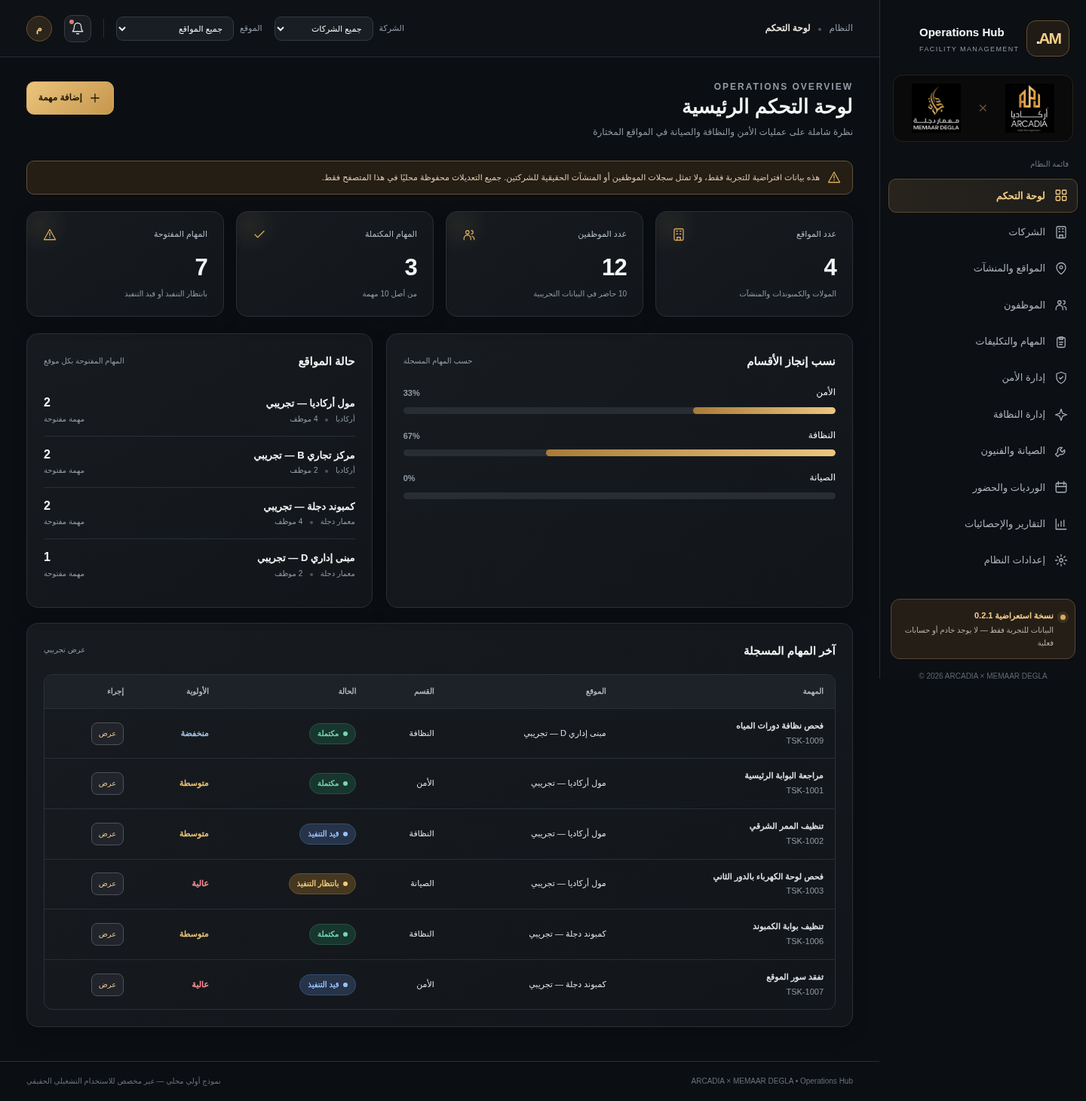
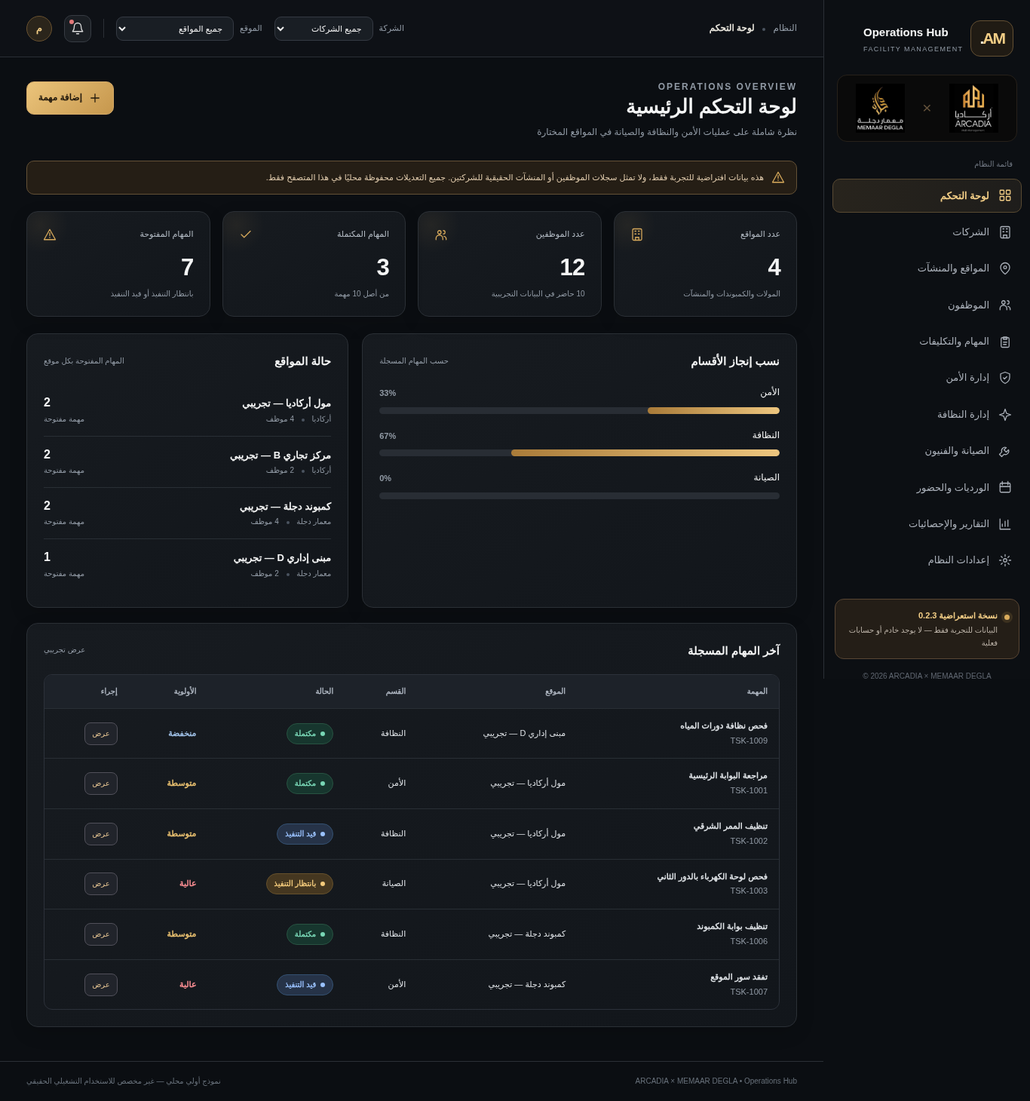
Release V0.2.3 - Premium Mobile UI

diff --git a/css/mobile-premium.css b/css/mobile-premium.css
@@ -1,0 +1,109 @@
+/* ARCADIA × MEMAAR DEGLA | V0.2.3 — Mobile-first enhancement layer.
+   Loaded after existing styles, preserving the desktop design and all functions. */
+.mobile-header-identity,.mobile-bottom-nav,.mobile-record-list{display:none}
+
+@media (max-width:820px){
+  :root{--radius:17px}
+  html{scroll-padding-top:136px}
+  body{font-size:14px;line-height:1.65}
+  .main-column{min-width:0;width:100%}
+  .topbar{height:auto;min-height:116px;display:grid;grid-template-rows:59px 50px;grid-template-columns:minmax(0,1fr);align-items:center;gap:0;padding:3px 16px 8px;background:rgba(12,15,19,.98);backdrop-filter:blur(14px);border-bottom-color:#30302b;box-shadow:0 8px 25px #0005;z-index:10}
+  .topbar-start{align-items:center;gap:11px;min-width:0;grid-row:1}
+  .topbar-start .breadcrumb{display:none}
+  .mobile-header-identity{display:flex;align-items:center;gap:10px;min-width:0}
+  .mobile-brand-logo{height:37px;width:39px;display:grid;place-items:center;font:800 15px Arial,sans-serif;color:var(--gold2);background:linear-gradient(135deg,#33291b,#1a1817);border:1px solid #7a613a;border-radius:11px;letter-spacing:-1px;box-shadow:inset 0 0 15px #d9ab5c13}
+  .mobile-brand-logo span{color:#fff}
+  .mobile-header-titles{display:flex;flex-direction:column;min-width:0;line-height:1.2;gap:3px}
+  .mobile-header-titles strong{font:700 13px Arial,sans-serif;color:#f4e1bc;direction:ltr;text-align:right}
+  .mobile-header-titles small{color:#b6b7bb;font-size:11px;white-space:nowrap;overflow:hidden;text-overflow:ellipsis}
+  .mobile-menu,.icon-btn{width:43px;height:43px;border-radius:13px}
+  .mobile-menu .icon,.icon-btn .icon{width:21px;height:21px}
+  .topbar-end{grid-row:2;align-self:center;display:grid;grid-template-columns:minmax(0,1fr) minmax(0,1fr);gap:10px;width:100%;padding:0}
+  .topbar-end .top-filter{display:flex;min-width:0;width:100%}
+  .topbar-end .site-filter{display:flex}
+  .top-filter select{width:100%;max-width:none;min-width:0;height:43px;border-radius:12px;border-color:#3b403f;background:#1b2025;color:#f0ede7;font-size:12px;padding:6px 12px;overflow:hidden;text-overflow:ellipsis;white-space:nowrap}
+  .topbar-end .avatar,.topbar-end .top-separator{display:none}
+  #notification-btn{position:absolute;left:16px;top:11px}
+  .sidebar{width:min(330px,88vw);box-shadow:-20px 0 50px #0009}
+  .sidebar .brand-box{padding-top:22px}
+  .sidebar-overlay.visible{backdrop-filter:blur(3px)}
+  .content{padding:20px 16px calc(95px + env(safe-area-inset-bottom,0px));overflow-x:clip;min-width:0}
+  .page-heading{margin-bottom:18px;gap:13px}
+  .page-heading h1{font-size:clamp(21px,5.6vw,26px);letter-spacing:-.4px;line-height:1.48}
+  .page-heading p:not(.eyebrow){font-size:12px;line-height:1.8;color:#a9adb6}
+  .eyebrow{font-size:9px;letter-spacing:2.4px;margin-bottom:3px;color:#cda764}
+  .heading-actions{width:100%;display:flex;justify-content:flex-start}
+  .heading-actions .btn{width:100%;min-height:46px;flex:1;font-size:13px;border-radius:13px;box-shadow:0 7px 24px #d4a85816}
+  .btn{min-height:43px;font-size:13px}
+  .banner-note{font-size:11px;line-height:1.65;padding:11px 12px;margin-bottom:17px;align-items:flex-start;gap:10px;border-radius:13px;background:#221c14}
+  .banner-note .icon{width:17px;height:17px;margin-top:3px;flex-shrink:0}
+  .stats-grid{grid-template-columns:repeat(2,minmax(0,1fr));gap:10px;margin-bottom:18px}
+  .metric-card{padding:15px;border-radius:16px;min-height:139px;border-color:#30343a;box-shadow:inset 0 1px 0 #ffffff07,0 8px 23px #0003}
+  .metric-card:nth-child(1){background:linear-gradient(145deg,#1c2229,#14191f)}
+  .metric-card:nth-child(2){background:linear-gradient(145deg,#1b211f,#14191b)}
+  .metric-card:nth-child(3){background:linear-gradient(145deg,#1d211d,#151a18)}
+  .metric-card:nth-child(4){background:linear-gradient(145deg,#241d1c,#18171a)}
+  .metric-head{font-size:11px;gap:5px;align-items:start}
+  .metric-head span{min-width:0;line-height:1.4}
+  .metric-head .icon{width:18px;height:18px;color:#e2b66b}
+  .metric-value{font:800 31px Arial,sans-serif;margin:13px 0 8px;line-height:1.08;text-align:right;letter-spacing:-.8px;color:#f8f7f4}
+  .metric-foot{font-size:10px;line-height:1.5;color:#a9afb5;overflow-wrap:anywhere}
+  .panel-grid{grid-template-columns:1fr;gap:12px;margin-bottom:14px}
+  .panel,.data-card{border-radius:17px;border-color:#32373e;box-shadow:0 10px 26px #0003}
+  .panel{padding:16px;margin-bottom:14px}
+  .panel-title{margin-bottom:15px;gap:9px;align-items:baseline}
+  .panel-title h2,.section-title{font-size:15px}
+  .panel-title small{font-size:10px}
+  .progress-row{margin:15px 0}
+  .progress-track{height:8px}
+  .overview-site{padding:12px 0}
+  .site-title{font-size:12px}
+  .site-right{flex-shrink:0}
+  .cards-grid,.mini-grid{grid-template-columns:1fr;gap:12px}
+  .data-card{padding:17px}
+  .data-card h3{font-size:15px}
+  .data-card p{font-size:12px}
+  .card-bottom{font-size:11px}
+  .table-wrap{max-width:100%;overflow-x:auto;-webkit-overflow-scrolling:touch}
+  .desktop-record-table{display:none}
+  .mobile-record-list{display:grid;gap:10px}
+  .mobile-record-card{padding:14px;border-radius:14px;border:1px solid #313941;background:linear-gradient(140deg,#1a2026,#12171d)}
+  .record-top,.record-bottom{display:flex;align-items:center;justify-content:space-between;gap:8px}
+  .record-id{font:600 11px Arial,sans-serif;color:#b2b7c0;direction:ltr;unicode-bidi:isolate;letter-spacing:.5px}
+  .mobile-record-card h3{font-size:13px;margin:9px 0 8px;font-weight:700;line-height:1.65}
+  .record-meta{display:flex;flex-wrap:wrap;gap:7px 13px;color:#adb4bf;font-size:11px;line-height:1.6}
+  .record-meta span{display:inline-flex;align-items:center;gap:4px;min-width:0;overflow-wrap:anywhere}
+  .record-meta .icon{width:13px;height:13px;color:#be995c}
+  .record-bottom{border-top:1px solid #30363d;margin-top:13px;padding-top:10px}
+  .record-bottom .table-link{display:inline-flex;align-items:center;gap:5px;min-height:37px;padding:6px 13px;font-size:11px}
+  .record-bottom .table-link .icon{width:14px;height:14px}
+  .record-priority{font-size:11px}
+  .table-toolbar{gap:10px}
+  .search-box{min-width:100%;max-width:none}
+  .search-box input{font-size:14px;min-height:43px}
+  .select-plain{font-size:12px;min-height:42px}
+  .dialog-backdrop{padding:10px;align-items:flex-end}
+  .dialog{width:100%;border-radius:20px 20px 12px 12px;max-height:calc(100dvh - 22px)}
+  .dialog-content{padding:17px}
+  .dialog-header{padding:17px}
+  .dialog-footer{padding:12px 17px;padding-bottom:calc(12px + env(safe-area-inset-bottom,0px))}
+  .form-group input,.form-group select,.form-group textarea{font-size:16px}
+  .footer{display:none}
+  .mobile-bottom-nav{display:grid;grid-template-columns:repeat(5,minmax(0,1fr));position:fixed;z-index:11;bottom:0;left:0;right:0;min-height:calc(68px + env(safe-area-inset-bottom,0px));padding:5px 5px calc(6px + env(safe-area-inset-bottom,0px));background:rgba(15,18,23,.97);border-top:1px solid #343438;backdrop-filter:blur(18px);box-shadow:0 -8px 30px #0007}
+  .bottom-nav-item{appearance:none;border:0;background:transparent;display:flex;flex-direction:column;align-items:center;justify-content:center;gap:3px;min-width:0;min-height:55px;border-radius:12px;color:#929aa5;font-size:10px;line-height:1.4;font-weight:700;position:relative}
+  .bottom-nav-item .icon{width:20px;height:20px;stroke-width:1.85}
+  .bottom-nav-item.active{color:#f0c981;background:#d5ab6321}
+  .bottom-nav-item.active:before{content:"";position:absolute;width:20px;height:2px;border-radius:5px;background:#e3b970;top:0}
+  #toast{bottom:calc(83px + env(safe-area-inset-bottom,0px));left:12px;right:12px;max-width:none;text-align:center;font-size:12px}
+}
+@media (max-width:360px){
+  .topbar{padding-inline:12px}
+  #notification-btn{left:12px}
+  .content{padding-inline:12px}
+  .metric-card{padding:12px;min-height:136px}
+  .metric-head{font-size:10px}
+  .metric-value{font-size:28px}
+  .metric-foot{font-size:9px}
+  .bottom-nav-item{font-size:9px}
+}
+@media(prefers-reduced-motion:reduce){.mobile-bottom-nav,.topbar{backdrop-filter:none}}

diff --git a/js/pages/reports.js b/js/pages/reports.js
@@ -4,7 +4,7 @@ export function createReportsPages(ctx) {
   function attendance(){
     const people=fEmployees(); const present=people.filter(e=>e.presence==='present').length;
     const rows=people.map(e=>`<tr><td><strong>${esc(e.name)}</strong></td><td>${esc(siteName(e.siteId))}</td><td>${esc(deptName(e.department))}</td><td>${esc(e.shift)}</td><td>${badge(e.presence)}</td><td><button class="table-link" data-action="toggle-presence" data-id="${esc(e.id)}">${e.presence==='present'?'تسجيل غياب':'تسجيل حضور'}</button></td></tr>`);
-    return heading('Shifts & attendance','الورديات والحضور','سجل حضور توضيحي قابل للتعديل لأغراض اختبار الواجهة')+demoNotice+`<div class="mini-grid">${tile('الموظفون',people.length,'ضمن المواقع المختارة')}${tile('حاضر',present,'حسب السجل المحلي')}${tile('غائب',people.length-present,'حسب السجل المحلي')}</div>`+panel('الحضور التجريبي',table(['الموظف','الموقع','القسم','الوردية','الحالة','تحديث'],rows),'ليس جهاز بصمة ولا نظام حضور معتمد');
+    return heading('Shifts & attendance','الورديات والحضور','سجل حضور توضيحي قابل للتعديل لأغراض اختبار الواجهة')+demoNotice+`<div class="mini-grid">${tile('الموظفون',people.length,'ضمن المواقع المختارة')}${tile('حاضر',present,'حسب السجل المحلي')}${tile('غائب',people.length-present,'حسب السجل المحلي')}</div>`+panel('الحضور التجريبي',`<div class="desktop-record-table">${table(['الموظف','الموقع','القسم','الوردية','الحالة','تحديث'],rows)}</div><div class="mobile-record-list">${people.map(e=>`<article class="mobile-record-card"><div class="record-top">${badge(e.presence)}<span class="record-id">${esc(e.shift)}</span></div><h3>${esc(e.name)}</h3><div class="record-meta"><span>${esc(siteName(e.siteId))}</span><span>${esc(deptName(e.department))}</span></div><div class="record-bottom"><button class="table-link" data-action="toggle-presence" data-id="${esc(e.id)}">${e.presence==='present'?'تسجيل غياب':'تسجيل حضور'}</button></div></article>`).join('')}</div>`,'ليس جهاز بصمة ولا نظام حضور معتمد');
   }
   function reports(){
     const tasks=fTasks(),employees=fEmployees(),sites=fSites(),done=tasks.filter(t=>t.status==='done').length;
@@ -15,7 +15,7 @@ export function createReportsPages(ctx) {
   }
   function settings(){
     return heading('System configuration','إعدادات النظام','المعايير الأساسية للنموذج الاستعراضي')+demoNotice+
-      `<section class="panel-grid">${panel('بيئة العرض',`<div class="report-stat"><span>اسم النظام</span><strong>Operations Hub</strong></div><div class="report-stat"><span>نسخة النموذج</span><strong>0.2.2</strong></div><div class="report-stat"><span>طريقة التخزين الحالية</span><strong>LocalStorage</strong></div><div class="report-stat"><span>تسجيل الدخول والصلاحيات</span><strong style="color:#e4b37e">غير مفعّل بعد</strong></div><div class="report-stat"><span>قاعدة بيانات حقيقية</span><strong style="color:#e4b37e">غير متصلة</strong></div>`) }
+      `<section class="panel-grid">${panel('بيئة العرض',`<div class="report-stat"><span>اسم النظام</span><strong>Operations Hub</strong></div><div class="report-stat"><span>نسخة النموذج</span><strong>0.2.3</strong></div><div class="report-stat"><span>طريقة التخزين الحالية</span><strong>LocalStorage</strong></div><div class="report-stat"><span>تسجيل الدخول والصلاحيات</span><strong style="color:#e4b37e">غير مفعّل بعد</strong></div><div class="report-stat"><span>قاعدة بيانات حقيقية</span><strong style="color:#e4b37e">غير متصلة</strong></div>`) }
       ${panel('بيانات النموذج',`<p class="muted">يمكن إعادة بيانات الاختبار إلى وضعها الأصلي. ستُحذف التعديلات التجريبية المخزنة في هذا المتصفح فقط.</p>${btn('إعادة البيانات الافتراضية','reset-demo','reload','btn-danger')}<div class="warn-box">لا تستخدم النموذج لتخزين بيانات حقيقية أو شخصية: هذه نسخة لتجربة التصميم ومسارات العمل، وليست نظامًا آمنًا للنشر.</div>`)}</section>`;
   }
   return { attendance, reports, settings };

diff --git a/index.html b/index.html
@@ -6,10 +6,11 @@
   <meta name="theme-color" content="#0b0d11">
   <meta name="description" content="نموذج أولي لنظام إدارة التشغيل لشركتي ARCADIA وMEMAAR DEGLA">
   <title>Operations Hub | ARCADIA × MEMAAR DEGLA</title>
-  <link rel="stylesheet" href="css/main.css">
-  <link rel="stylesheet" href="css/components.css">
-  <link rel="stylesheet" href="css/dashboard.css">
-  <link rel="stylesheet" href="css/responsive.css">
+  <link rel="stylesheet" href="css/main.css?v=0.2.3">
+  <link rel="stylesheet" href="css/components.css?v=0.2.3">
+  <link rel="stylesheet" href="css/dashboard.css?v=0.2.3">
+  <link rel="stylesheet" href="css/responsive.css?v=0.2.3">
+  <link rel="stylesheet" href="css/mobile-premium.css?v=0.2.3">
 </head>
 <body>
 <svg aria-hidden="true" class="sprite" xmlns="http://www.w3.org/2000/svg">
@@ -53,14 +54,14 @@
     <div class="side-section-label">قائمة النظام</div>
     <nav id="side-nav"></nav>
     <div class="side-bottom">
-      <div class="prototype-notice"><span class="prototype-pulse"></span><div><strong>نسخة استعراضية 0.2.2</strong><small>البيانات للتجربة فقط — لا يوجد خادم أو حسابات فعلية</small></div></div>
+      <div class="prototype-notice"><span class="prototype-pulse"></span><div><strong>نسخة استعراضية 0.2.3</strong><small>البيانات للتجربة فقط — لا يوجد خادم أو حسابات فعلية</small></div></div>
       <div class="build-version">© 2026 ARCADIA × MEMAAR DEGLA</div>
     </div>
   </aside>
   <div class="sidebar-overlay" id="overlay"></div>
   <div class="main-column">
     <header class="topbar">
-      <div class="topbar-start"><button class="icon-btn mobile-menu" id="menu-btn" aria-label="فتح القائمة"><svg class="icon"><use href="#i-menu"/></svg></button><div class="breadcrumb" id="breadcrumb"></div></div>
+      <div class="topbar-start"><button class="icon-btn mobile-menu" id="menu-btn" aria-label="فتح القائمة"><svg class="icon"><use href="#i-menu"/></svg></button><div class="mobile-header-identity" aria-hidden="true"><span class="mobile-brand-logo">AM<span>.</span></span><span class="mobile-header-titles"><strong>Operations Hub</strong><small id="mobile-page-title">لوحة التحكم</small></span></div><div class="breadcrumb" id="breadcrumb"></div></div>
       <div class="topbar-end">
         <div class="top-filter"><label for="company-filter">الشركة</label><select id="company-filter"><option value="all">جميع الشركات</option></select></div>
         <div class="top-filter site-filter"><label for="site-filter">الموقع</label><select id="site-filter"><option value="all">جميع المواقع</option></select></div>
@@ -69,12 +70,19 @@
       </div>
     </header>
     <main class="content" id="content" tabindex="-1"></main>
+    <nav class="mobile-bottom-nav" id="mobile-bottom-nav" aria-label="التنقل السريع">
+      <button type="button" data-page="dashboard" class="bottom-nav-item active"><svg class="icon" aria-hidden="true"><use href="#i-grid"></use></svg><span>الرئيسية</span></button>
+      <button type="button" data-page="tasks" class="bottom-nav-item"><svg class="icon" aria-hidden="true"><use href="#i-clipboard"></use></svg><span>المهام</span></button>
+      <button type="button" data-page="sites" class="bottom-nav-item"><svg class="icon" aria-hidden="true"><use href="#i-map"></use></svg><span>المواقع</span></button>
+      <button type="button" data-page="employees" class="bottom-nav-item"><svg class="icon" aria-hidden="true"><use href="#i-users"></use></svg><span>الموظفون</span></button>
+      <button type="button" id="bottom-menu-btn" class="bottom-nav-item" aria-label="فتح جميع الأقسام"><svg class="icon" aria-hidden="true"><use href="#i-menu"></use></svg><span>المزيد</span></button>
+    </nav>
     <footer class="footer"><span>ARCADIA × MEMAAR DEGLA • Operations Hub</span><span>نموذج أولي محلي — غير مخصص للاستخدام التشغيلي الحقيقي</span></footer>
   </div>
 </div>
 <div id="dialog-root"></div>
 <div id="toast" role="status" aria-live="polite"></div>
-<script type="module" src="js/app.js?v=0.2.2"></script>
+<script type="module" src="js/app.js?v=0.2.3"></script>
 <noscript><p style="padding:1rem;text-align:center">يتطلب تشغيل هذه الواجهة تفعيل JavaScript.</p></noscript>
 </body>
 </html>

diff --git a/js/pages/tasks.js b/js/pages/tasks.js
@@ -1,6 +1,6 @@
 // Modular V0.2.1: createTasksPage. UI demo only.
 export function createTasksPage(ctx) {
-  const { data, state, esc, company, site, siteName, employeeName, deptName, fTasks, badge, priority, fmtDate, heading, btn, panel, table, searchToolbar, demoNotice, tile } = ctx;
+  const { data, state, esc, company, site, siteName, employeeName, deptName, fTasks, badge, priority, fmtDate, heading, btn, panel, table, searchToolbar, demoNotice, tile, mobileTaskCard } = ctx;
   function tasksPage(dept){
     const q=state.search.trim().toLowerCase();
     let tasks=fTasks().filter(t=>!dept||t.department===dept).filter(t=>state.status==='all'||t.status===state.status).filter(t=>(t.title+' '+t.id+' '+siteName(t.siteId)+' '+employeeName(t.assignedTo)).toLowerCase().includes(q));
@@ -12,7 +12,7 @@ export function createTasksPage(ctx) {
       dept==='cleaning'?`<div class="mini-grid">${tile('مهام النظافة',tasks.length,'مجدولة ومسندة')}${tile('مهام مكتملة',tasks.filter(t=>t.status==='done').length,'ضمن النطاق المختار')}${tile('قيد المتابعة',tasks.filter(t=>t.status!=='done').length,'لم تغلق بعد')}</div>`:
       dept==='maintenance'?`<div class="mini-grid">${tile('بلاغات الصيانة',tasks.length,'تحت المتابعة')}${tile('عالية الأولوية',tasks.filter(t=>t.priority==='high').length,'تحتاج اهتمامًا')}${tile('مكتملة',tasks.filter(t=>t.status==='done').length,'تمت مراجعتها تجريبيًا')}</div>`:'';
     const notes=dept==='security'?panel('البلاغات الأمنية — بيانات نموذجية',table(['البلاغ','الموقع','الخطورة','الحالة'],data.incidents.filter(i=>state.site==='all'||i.siteId===state.site).filter(i=>state.company==='all'||site(i.siteId)?.companyId===state.company).map(i=>`<tr><td>${esc(i.title)}</td><td>${esc(siteName(i.siteId))}</td><td>${priority(i.level)}</td><td>${badge(i.status)}</td></tr>`))):'';
-    return heading(dept?dept.toUpperCase()+' operations':'Task center',label,desc,btn('مهمة جديدة','new-task'))+demoNotice+extra+panel(dept?'مهام '+label:'جميع المهام',searchToolbar()+table(heads,rows),`${tasks.length} نتيجة`)+notes;
+    return heading(dept?dept.toUpperCase()+' operations':'Task center',label,desc,btn('مهمة جديدة','new-task'))+demoNotice+extra+panel(dept?'مهام '+label:'جميع المهام',searchToolbar()+`<div class="desktop-record-table">${table(heads,rows)}</div><div class="mobile-record-list">${tasks.length?tasks.map(t=>mobileTaskCard(t,{siteName,deptName,employeeName,showEmployee:true,showDepartment:!dept})).join(''):'<p class="no-data">لا توجد مهام في النطاق الحالي</p>'}</div>`,`${tasks.length} نتيجة`)+notes;
   }
   return { tasksPage };
 }

diff --git a/js/ui/templates.js b/js/ui/templates.js
@@ -10,8 +10,14 @@ export function createTemplates(ctx) {
   const panel=(title,content,subtitle='')=>`<section class="panel"><div class="panel-title"><h2>${title}</h2>${subtitle?`<small>${subtitle}</small>`:''}</div>${content}</section>`;
   const table=(heads,rows,empty='لا توجد نتائج ضمن نطاق البحث الحالي')=>`<div class="table-wrap"><table class="data-table"><thead><tr>${heads.map(h=>`<th scope="col">${h}</th>`).join('')}</tr></thead><tbody>${rows.length?rows.join(''):`<tr><td colspan="${heads.length}" class="empty-state">${empty}</td></tr>`}</tbody></table></div>`;
   const searchToolbar=(placeholder='ابحث بالاسم أو الرقم...')=>`<div class="table-toolbar"><label class="search-box">${icon('search')}<input type="search" id="page-search" value="${esc(state.search)}" placeholder="${esc(placeholder)}" autocomplete="off" aria-label="بحث"></label><select class="select-plain" id="status-filter" aria-label="تصفية الحالة"><option value="all">كل الحالات</option><option value="pending" ${state.status==='pending'?'selected':''}>بانتظار التنفيذ</option><option value="progress" ${state.status==='progress'?'selected':''}>قيد التنفيذ</option><option value="done" ${state.status==='done'?'selected':''}>مكتملة</option></select></div>`;
+  const mobileTaskCard=(t,{siteName,deptName,employeeName,showEmployee=false,showDepartment=true})=>`<article class="mobile-record-card">
+    <div class="record-top"><span class="record-id">${esc(t.id)}</span>${badge(t.status)}</div>
+    <h3>${esc(t.title)}</h3>
+    <div class="record-meta"><span>${icon('map')}${esc(siteName(t.siteId))}</span>${showDepartment?`<span>${icon('shield')}${esc(deptName(t.department))}</span>`:''}${showEmployee?`<span>${icon('users')}${esc(employeeName(t.assignedTo))}</span>`:''}</div>
+    <div class="record-bottom"><span class="record-priority">${priority(t.priority)}</span><button class="table-link" data-action="task-detail" data-id="${esc(t.id)}">عرض التفاصيل ${icon('chevron')}</button></div>
+  </article>`;
   const demoNotice=`<div class="banner-note">${icon('alert')} <span>هذه بيانات افتراضية للتجربة فقط، ولا تمثل سجلات الموظفين أو المنشآت الحقيقية للشركتين. جميع التعديلات محفوظة محليًا في هذا المتصفح فقط.</span></div>`;
 
   function tile(title,num,caption){return `<div class="feature-tile"><span>${title}</span><strong>${num}</strong><small>${caption}</small></div>`;}
-  return { badge, priority, fmtDate, stat, heading, btn, panel, table, searchToolbar, demoNotice, tile };
+  return { badge, priority, fmtDate, stat, heading, btn, panel, table, searchToolbar, demoNotice, tile, mobileTaskCard };
 }

diff --git a/js/ui/events.js b/js/ui/events.js
@@ -2,7 +2,7 @@
 export function initEvents(ctx) {
   const { $, data, state, SEED, save, resetData, company, site, employee, btn, renderPage, refresh, toast, closeDialog, dialog, newTask, submitTask, newSite, submitSite, newEmployee, submitEmployee, taskDetail, csvExport } = ctx;
   function resetDemo(){if(!confirm('هل تريد حذف التعديلات التجريبية وإعادة البيانات الأصلية؟'))return;resetData();closeDialog();state.company='all';state.site='all';state.search='';state.status='all';refresh();toast('أُعيدت البيانات التجريبية');}
-  function closeSidebar(){$('sidebar').classList.remove('open');$('overlay').classList.remove('visible');}
+  function closeSidebar(){$('sidebar').classList.remove('open');$('overlay').classList.remove('visible');$('menu-btn').setAttribute('aria-expanded','false');}
   document.addEventListener('click',e=>{
     const nav=e.target.closest('[data-page]');if(nav){state.page=nav.dataset.page;state.search='';state.status='all';closeSidebar();renderPage();window.scrollTo({top:0,behavior:'auto'});return;}
     const a=e.target.closest('[data-action]');if(a){const action=a.dataset.action;
@@ -17,8 +17,10 @@ export function initEvents(ctx) {
   document.addEventListener('keydown',e=>{if(e.key==='Escape'){closeDialog();closeSidebar();}});
   $('company-filter').addEventListener('change',e=>{state.company=e.target.value;state.site='all';state.search='';refresh();});
   $('site-filter').addEventListener('change',e=>{state.site=e.target.value;state.search='';renderPage();});
-  $('menu-btn').addEventListener('click',()=>{$('sidebar').classList.add('open');$('overlay').classList.add('visible');});
+  $('menu-btn').addEventListener('click',()=>{$('sidebar').classList.add('open');$('overlay').classList.add('visible');$('menu-btn').setAttribute('aria-expanded','true');});
   $('overlay').addEventListener('click',closeSidebar);
+  const bottomMenu=$('bottom-menu-btn');if(bottomMenu)bottomMenu.addEventListener('click',()=>{$('sidebar').classList.add('open');$('overlay').classList.add('visible');$('menu-btn').setAttribute('aria-expanded','true');});
+  $('menu-btn').setAttribute('aria-expanded','false');
   $('notification-btn').addEventListener('click',()=>{state.page='maintenance';state.status='pending';state.search='';renderPage();toast('عرض المهام المعلقة — الإشعارات الحقيقية ستُضاف لاحقًا');});
   refresh();
   return { resetDemo, closeSidebar };

diff --git a/js/app.js b/js/app.js
@@ -1,22 +1,22 @@
 // V0.2.2 — modular browser-native ES modules (no build step required).
 // Static hosting compatible: GitHub Pages. Demo data remains local-only.
-import {$,icon,esc,day,safeCsvCell} from './core/utils.js?v=0.2.2';
-import {createSeed} from './core/seed.js?v=0.2.2';
-import {LABELS,STATUS_CLASS,NAV} from './core/config.js?v=0.2.2';
-import {createStore} from './core/store.js?v=0.2.2';
-import {createTemplates} from './ui/templates.js?v=0.2.2';
-import {createDashboardPage} from './pages/dashboard.js?v=0.2.2';
-import {createSitesPages} from './pages/sites.js?v=0.2.2';
-import {createEmployeePage} from './pages/employees.js?v=0.2.2';
-import {createTasksPage} from './pages/tasks.js?v=0.2.2';
-import {createReportsPages} from './pages/reports.js?v=0.2.2';
-import {createLayout} from './ui/layout.js?v=0.2.2';
-import {createDialogs} from './ui/dialogs.js?v=0.2.2';
-import {createFormOptions} from './features/form-options.js?v=0.2.2';
-import {createTaskActions} from './features/tasks.js?v=0.2.2';
-import {createSiteActions} from './features/sites.js?v=0.2.2';
-import {createEmployeeActions} from './features/employees.js?v=0.2.2';
-import {initEvents} from './ui/events.js?v=0.2.2';
+import {$,icon,esc,day,safeCsvCell} from './core/utils.js?v=0.2.3';
+import {createSeed} from './core/seed.js?v=0.2.3';
+import {LABELS,STATUS_CLASS,NAV} from './core/config.js?v=0.2.3';
+import {createStore} from './core/store.js?v=0.2.3';
+import {createTemplates} from './ui/templates.js?v=0.2.3';
+import {createDashboardPage} from './pages/dashboard.js?v=0.2.3';
+import {createSitesPages} from './pages/sites.js?v=0.2.3';
+import {createEmployeePage} from './pages/employees.js?v=0.2.3';
+import {createTasksPage} from './pages/tasks.js?v=0.2.3';
+import {createReportsPages} from './pages/reports.js?v=0.2.3';
+import {createLayout} from './ui/layout.js?v=0.2.3';
+import {createDialogs} from './ui/dialogs.js?v=0.2.3';
+import {createFormOptions} from './features/form-options.js?v=0.2.3';
+import {createTaskActions} from './features/tasks.js?v=0.2.3';
+import {createSiteActions} from './features/sites.js?v=0.2.3';
+import {createEmployeeActions} from './features/employees.js?v=0.2.3';
+import {initEvents} from './ui/events.js?v=0.2.3';
 
 const SEED=createSeed(day);
 const {data,save,resetData}=createStore(SEED);

diff --git a/js/pages/dashboard.js b/js/pages/dashboard.js
@@ -1,6 +1,6 @@
 // Modular V0.2.1: createDashboardPage. UI demo only.
 export function createDashboardPage(ctx) {
-  const { data, esc, site, companyName, siteName, deptName, fTasks, fEmployees, fSites, badge, priority, stat, heading, btn, panel, table, demoNotice } = ctx;
+  const { data, esc, site, companyName, siteName, deptName, fTasks, fEmployees, fSites, badge, priority, stat, heading, btn, panel, table, demoNotice, mobileTaskCard } = ctx;
   function dashboard(){
     const tasks=fTasks(),people=fEmployees(),sites=fSites();
     const done=tasks.filter(t=>t.status==='done').length,opened=tasks.filter(t=>t.status!=='done').length;
@@ -13,7 +13,7 @@ export function createDashboardPage(ctx) {
     return heading('Operations overview','لوحة التحكم الرئيسية','نظرة شاملة على عمليات الأمن والنظافة والصيانة في المواقع المختارة',btn('إضافة مهمة','new-task'))+demoNotice+
       `<section class="stats-grid">${stat('عدد المواقع',sites.length,'building','المولات والكمبوندات والمنشآت')}${stat('عدد الموظفين',people.length,'users',`${present} حاضر في البيانات التجريبية`)}${stat('المهام المكتملة',done,'check',`من أصل ${tasks.length} مهمة`)}${stat('المهام المفتوحة',opened,'alert','بانتظار التنفيذ أو قيد التنفيذ')}</section>`+
       `<section class="panel-grid">${panel('نسب إنجاز الأقسام',progress,'حسب المهام المسجلة')}${panel('حالة المواقع',siteRows,'المهام المفتوحة بكل موقع')}</section>`+
-      panel('آخر المهام المسجلة',table(['المهمة','الموقع','القسم','الحالة','الأولوية','إجراء'],rows),'عرض تجريبي');
+      panel('آخر المهام المسجلة',`<div class="desktop-record-table">${table(['المهمة','الموقع','القسم','الحالة','الأولوية','إجراء'],rows)}</div><div class="mobile-record-list">${recent.length?recent.map(t=>mobileTaskCard(t,{siteName,deptName})).join(''):'<p class="no-data">لا توجد مهام</p>'}</div>`,'عرض تجريبي');
   }
   return { dashboard };
 }

diff --git a/js/pages/employees.js b/js/pages/employees.js
@@ -5,7 +5,7 @@ export function createEmployeePage(ctx) {
     const search=state.search.trim().toLowerCase();
     const people=fEmployees().filter(e=>(e.name+' '+e.code+' '+e.job).toLowerCase().includes(search));
     const rows=people.map(e=>`<tr><td><strong>${esc(e.name)}</strong><br><span class="muted">${esc(e.code)}</span></td><td>${esc(e.job)}</td><td>${esc(deptName(e.department))}</td><td>${esc(siteName(e.siteId))}</td><td>${esc(e.shift)}</td><td>${badge(e.presence)}</td></tr>`);
-    return heading('Workforce directory','الموظفون','ملفات الموظفين وتوزيعهم على المواقع والأقسام',btn('إضافة موظف','new-employee'))+demoNotice+panel('دليل الموظفين',searchToolbar('ابحث بالاسم أو الكود الوظيفي...')+table(['الموظف','الوظيفة','القسم','الموقع','الوردية','الحضور'],rows),`${people.length} موظف`);
+    return heading('Workforce directory','الموظفون','ملفات الموظفين وتوزيعهم على المواقع والأقسام',btn('إضافة موظف','new-employee'))+demoNotice+panel('دليل الموظفين',searchToolbar('ابحث بالاسم أو الكود الوظيفي...')+`<div class="desktop-record-table">${table(['الموظف','الوظيفة','القسم','الموقع','الوردية','الحضور'],rows)}</div><div class="mobile-record-list">${people.length?people.map(e=>`<article class="mobile-record-card"><div class="record-top"><span class="record-id">${esc(e.code)}</span>${badge(e.presence)}</div><h3>${esc(e.name)}</h3><div class="record-meta"><span>${esc(e.job)}</span><span>${esc(deptName(e.department))}</span><span>${esc(siteName(e.siteId))}</span><span>${esc(e.shift)}</span></div></article>`).join(''):'<p class="no-data">لا يوجد موظفون ضمن نطاق البحث</p>'}</div>`,`${people.length} موظف`);
   }
   return { employeesPage };
 }

diff --git a/js/ui/layout.js b/js/ui/layout.js
@@ -6,6 +6,8 @@ export function createLayout(ctx) {
     $('side-nav').innerHTML=NAV.map(([id,ic,title])=>`<button class="nav-item ${state.page===id?'active':''}" data-page="${id}" ${state.page===id?'aria-current="page"':''}>${icon(ic)}<span>${title}</span></button>`).join('');
     const label=NAV.find(x=>x[0]===state.page)?.[2]||'لوحة التحكم';
     $('breadcrumb').innerHTML=`النظام <span class="small-sep"></span> <strong>${esc(label)}</strong>`;
+    const mobileLabel=$('mobile-page-title');if(mobileLabel)mobileLabel.textContent=label;
+    document.querySelectorAll('#mobile-bottom-nav [data-page]').forEach(button=>{const active=button.dataset.page===state.page;button.classList.toggle('active',active);if(active)button.setAttribute('aria-current','page');else button.removeAttribute('aria-current');});
     $('content').innerHTML=(renderers[state.page]||dashboard)();
   }
   function renderFilters(){

diff --git a/CHANGELOG.md b/CHANGELOG.md
@@ -1,36 +1,10 @@
 # Changelog
 
-## V0.2.2 — إصلاح الشاشة الفارغة (Hotfix)
-
-- إصلاح دالة `$` المفقودة في 6 وحدات JavaScript، التي أوقفت تحميل لوحة التحكم.
-- إصلاح زر إعادة بيانات العرض إلى الافتراضي باستخدام `resetData()`.
-- إضافة معامل إصدار `?v=0.2.2` للملف الرئيسي ووارداته لتقليل تأثير التخزين المؤقت بعد النشر.
-- تنظيف تعبير CSV من محارف تحكم غير قابلة للطباعة.
-- اختبار إنشاء الواجهة والعرض الأولي لكل الأقسام الـ11 باستخدام محاكاة DOM، وفحص صياغة كل ملفات JavaScript.
-- **لم يكتمل اختبار تفاعل مرئي بمتصفح حقيقي في بيئة الاختبار** بسبب قيود التصفح؛ يرجى التحقق بعد النشر.
-
----
-
-# Changelog — V0.2.1
-
-## Changes made
-- Preserve V0.1's Arabic dark/gold UI, original logos, 11 navigation sections, and demo-only flows.
-- Split styles into `css/main.css`, `css/components.css`, `css/dashboard.css`, and `css/responsive.css`.
-- Split JavaScript into ES modules under `js/core`, `js/pages`, `js/features`, and `js/ui`.
-- Preserve the old `am-ops-demo-v1` localStorage key to avoid losing existing local demo edits.
-- Improve error handling for unavailable local storage.
-- Protect exported CSV cells from spreadsheet-formula injection.
-- Prevent saving employee, site, or task names containing only spaces.
-- Improve dialog closing focus restoration.
-- Update demo version labels from 0.1 to 0.2.1.
-- Add `.gitignore`, test checklist, and deployment guide.
-
-## Verification performed
-- Syntax-checked all generated JavaScript modules with Node.js.
-- Headless Chromium test using an injected in-memory bundle (not a live GitHub Pages deployment): visited all 11 sections, created a task, modified its status, rejected a blank task name, downloaded CSV, opened the mobile menu, and visited the employee page on mobile.
-- No page JavaScript errors reported in that harness; no document-level horizontal scroll at 390px.
-- Direct navigation to the local HTTP server was blocked by the test environment; actual deployment must still be checked after uploading.
-
-## Still not implemented
-- Real authentication, permissions, Supabase integration, cross-device synchronization, audit logs, approvals and production security.
-- This is **NOT** suitable for storing real employee data or confidential incidents.
+## V0.2.3 — Mobile Experience Upgrade
+- Reworked mobile header as a compact 2-row toolbar with company and site selectors.
+- Added persistent 5-item bottom navigation, wired to the existing page router and sidebar.
+- Improved dashboard typography, spacing, KPI cards and panels on narrow screens.
+- Introduced mobile task cards on Dashboard and task pages, and staff / attendance cards while preserving desktop tables.
+- Kept all existing JavaScript modules, local demo storage key and original company logos.
+- Improved modal, tap target, and screen safe-area styling for a future WebView wrapper.
+- Did not implement server-side authentication, data sync or a production backend.

diff --git a/README.md b/README.md
@@ -1,4 +1,4 @@
-# ARCADIA × MEMAAR DEGLA — Operations Hub V0.2.2
+# ARCADIA × MEMAAR DEGLA — Operations Hub V0.2.3
 
 واجهة إدارة تجريبية باللغة العربية لشركتين تحت إدارة واحدة، مع أقسام الأمن والنظافة والصيانة والحضور والتقارير.
 
@@ -46,3 +46,10 @@ python -m http.server 8000
 - إصلاح حقن دالة الوصول إلى DOM `$` في ست وحدات JavaScript؛ كان يمنع تهيئة لوحة التحكم والقائمة.
 - إصلاح زر إعادة ضبط بيانات العرض التجريبي لاستدعاء `resetData()` بدل إسناد إلى ثابت.
 - إزالة المحارف الثنائية من التعبير المنتظم للـ CSV، وإضافة cache-busting لملف التشغيل.
+
+## Mobile UX V0.2.3
+- `css/mobile-premium.css` overrides responsive presentation without altering desktop styles.
+- The bottom navigation renders on screens up to 820px, with the `المزيد` item opening the full sidebar.
+- Dashboard and task screens use responsive cards below 820px; desktop tables remain intact.
+- The company and site filter controls are visible on mobile in the second toolbar row.
+- Manual test widths: 320, 360, 393, 430, 768, 1366 pixels.
